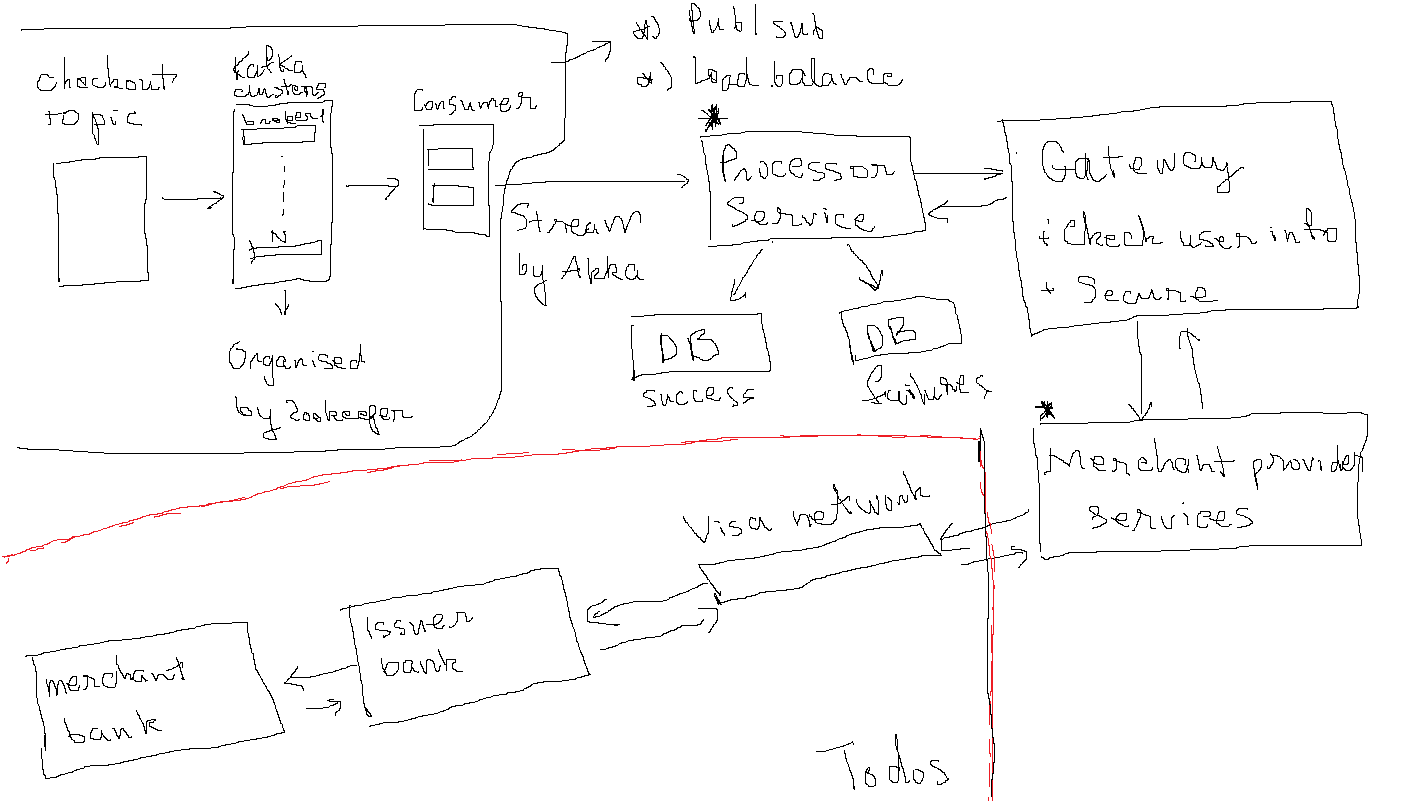
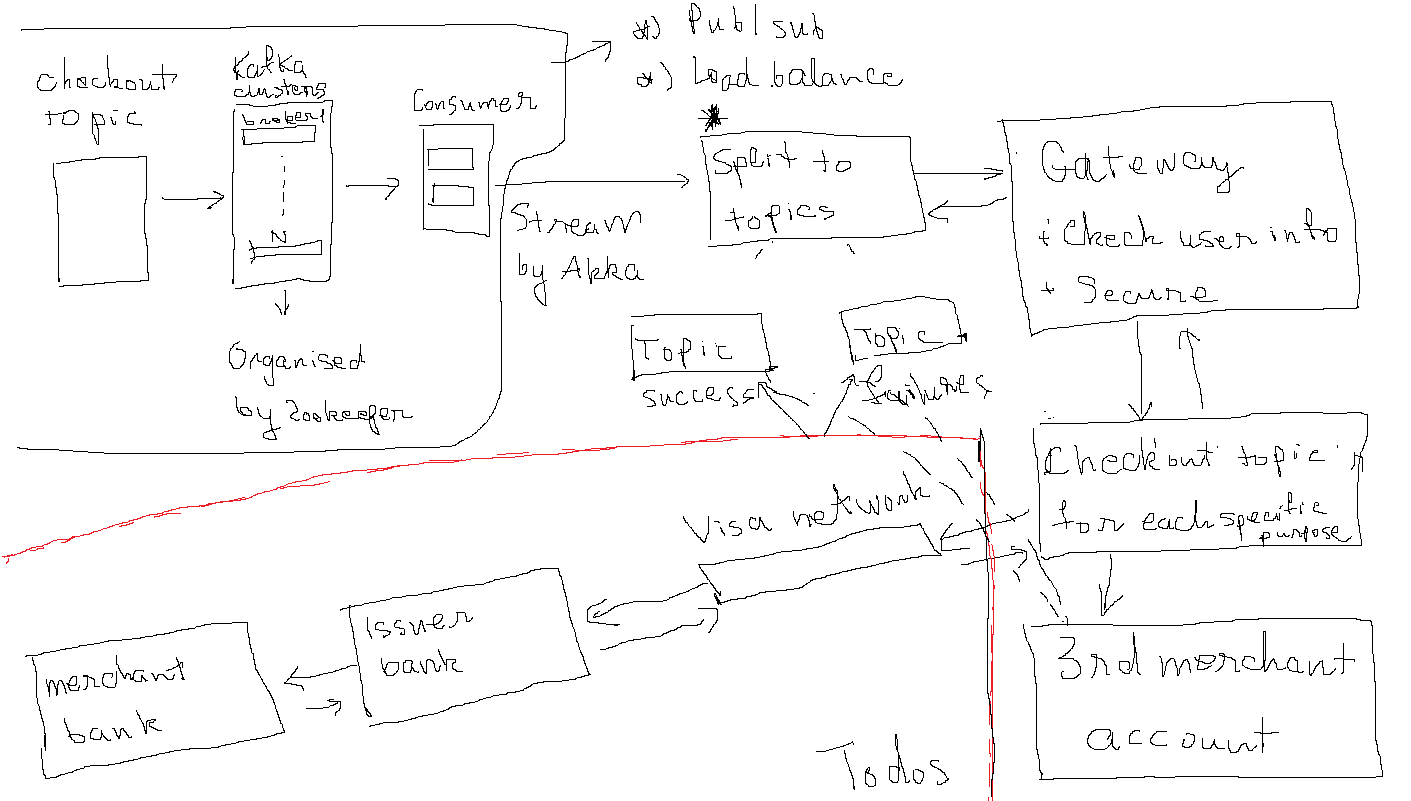
re-design architecture

diff --git a/services/payment_system_1/payment_gateway_service/app/src/main/java/payment_processor/stream/KafkaConsumer.java b/services/payment_system_1/payment_gateway_service/app/src/main/java/payment_processor/stream/KafkaConsumer.java
@@ -33,7 +33,8 @@ public class KafkaConsumer {
     private final static String groupId = "payment-gateway-1"; //each consumer has same group_id consume same topic
     private final static String topicName = "checkouts";
     private final static String errorTopic = "error-payment"; 
-    private final static String validTopic = "valid-payment";
+    private final static String thirdPartyPSPTopic = "third-party-psp";
+    private final static String internalPSPTopic = "posession-psp";
     private final static int parallelism = 4;
 
     private ConsumerSettings<String, String> consumerSettings;
@@ -51,7 +52,10 @@ public class KafkaConsumer {
     public CompletionStage<Done> consume() {
         return Consumer.plainSource(this.consumerSettings, this.subscription)
             .map(this::demarshallingMessage) 
-            .divertTo(checkoutSinks.getErrorSink().contramap(this::toErrorTopic), Either::isLeft) // divert to sink if Either.isLeft()
+            .divertTo(
+                checkoutSinks.getErrorSink().contramap(this::toErrorTopic), //map function before to sink
+                Either::isLeft
+            ) // divert to sink if Either.isLeft()
             .map(Either::get) // Get right or throw left
             .runForeach(
                 event -> System.out.println(event.toString()), this.materializer
@@ -66,6 +70,10 @@ public class KafkaConsumer {
             return Either.left("Error while demarshall message key = " + message.key());
         }
     }
+
+    //Fraud detection
+
+    //check user for distributing to correctsponded topic
 
     //error demarshalled message
     private ProducerRecord<String,String> toErrorTopic(Either<String, Checkout> ex) {

diff --git a/services/payment_system_1/payment_gateway_service/app/src/main/java/payment_processor/stream/CheckoutSinks.java b/services/payment_system_1/payment_gateway_service/app/src/main/java/payment_processor/stream/CheckoutSinks.java
@@ -20,7 +20,7 @@ import com.typesafe.config.Config;
 
 public class CheckoutSinks {
     //kafka flow: ProcedureRecord -> CompletionStage
-    private final Sink<ProducerRecord<String, String>, CompletionStage<Done>> errorSink, validatedSink;
+    private final Sink<ProducerRecord<String, String>, CompletionStage<Done>> errorSink, thirdPartySink, internalSink;
     private final static String kafkaBrokerHost = "127.0.0.1:9092";
 
     public CheckoutSinks(Config config) {
@@ -32,14 +32,19 @@ public class CheckoutSinks {
         .withBootstrapServers(kafkaBrokerHost);
 
         this.errorSink = Producer.plainSink(producerSettings);
-        this.validatedSink = Producer.plainSink(producerSettings);
+        this.thirdPartySink = Producer.plainSink(producerSettings);
+        this.internalSink = Producer.plainSink(producerSettings);
     }
 
     public Sink<ProducerRecord<String, String>, CompletionStage<Done>> getErrorSink() {
         return errorSink;
     }
 
-    public Sink<ProducerRecord<String, String>, CompletionStage<Done>> getValidatedSink() {
-        return validatedSink;
+    public Sink<ProducerRecord<String, String>, CompletionStage<Done>> getThirdPartySink() {
+        return thirdPartySink;
+    }
+
+    public Sink<ProducerRecord<String, String>, CompletionStage<Done>> getinternalSink() {
+        return internalSink;
     }
 }

diff --git a/services/payment_system_1/payment_gateway_service/README.md b/services/payment_system_1/payment_gateway_service/README.md
@@ -1,1 +1,3 @@
 (consume from kafka broker ---data pipe line--->) payment provider
+
+---de-marshall to class --- fraud detection --- check user --- route to each different topics, in order to correctsponded psp consume it
